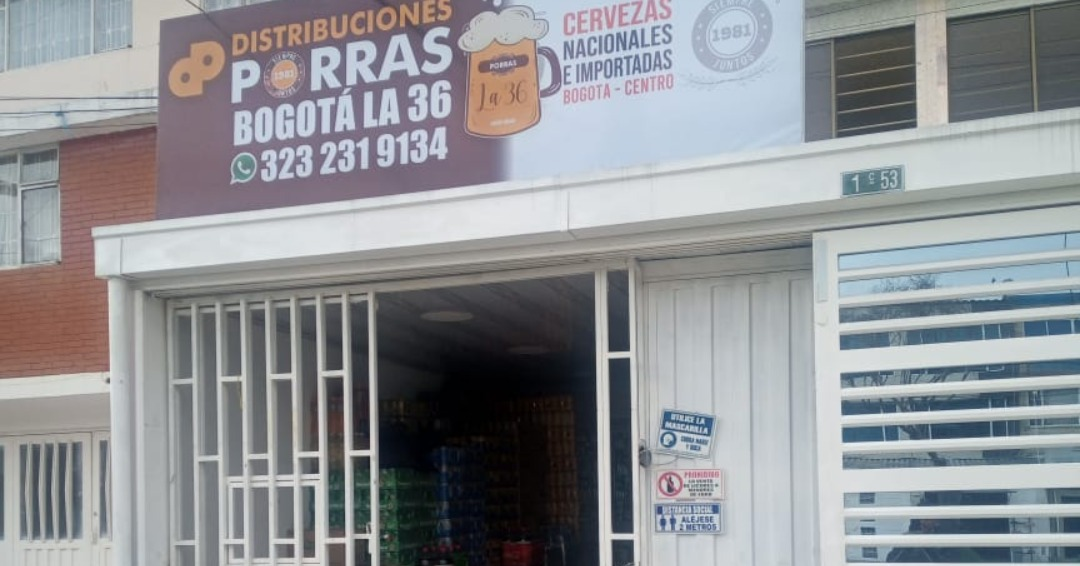
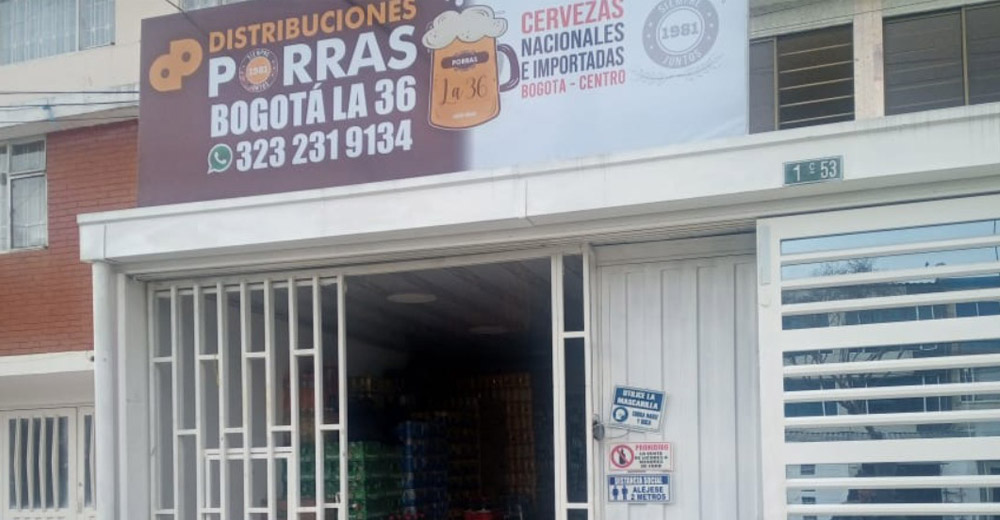
mapping images

diff --git a/sucursales/bogota/Bosa.html b/sucursales/bogota/Bosa.html
@@ -161,7 +161,7 @@
       <div class="col-12">
         <h3 class="mt-5 mb-5">Obtenga mas información haciendo click sobre la imagen</h3>
         <div id="fh5co-title-box">
-          <img src="../../images/Bosa.jpg" alt="sucursal Bosa" border="0" usemap="#Map" class="w-100 h-100 mainBanner" style="object-fit: cover;">
+          <img src="../../images/Bosa.jpg" alt="sucursal Bosa" border="0" usemap="#Map" class="w-100 mainBanner">
           <map name="Map">
             <area shape="poly" coords="308,3,301,241,1282,350,1345,150" href="#contact">
             <area shape="rect" coords="245,355,783,729" href="#" data-toggle="modal" data-target="#bosa1">
@@ -275,28 +275,13 @@
         <div class="imgContainer">
           <img class="w-100" src="../../images/aseo.jpg" alt="productos de aseo">
         </div>
-        <table class="table table-bordered table-dark mt-4 text-center">
-          <thead>
-            <tr>
-              <th class="text-center" scope="col">Producto</th>
-              <th class="text-center" scope="col">Precio</th>
-            </tr>
-          </thead>
-          <tbody>
-            <tr>
-              <td>producto1</td>
-              <td>$$$</td>
-            </tr>
-            <tr>
-              <td>producto2</td>
-              <td>$$$</td>
-            </tr>
-            <tr>
-              <td>producto3</td>
-              <td>$$$</td>
-            </tr>
-          </tbody>
-        </table>
+        <h5 class="pt-4 pb-2">Distribuimos las siguientes marcas:</h5>
+        <ul>
+          <li>Marca 1 Lorem ipsum dolor sit.</li>
+          <li>Marca 2 Lorem ipsum dolor sit.</li>
+          <li>Marca 3 Lorem ipsum dolor sit.</li>
+          <li>Marca 4 Lorem ipsum dolor sit.</li>
+        </ul>
       </div>
       <div class="modal-footer">
         <button type="button" class="btn" data-dismiss="modal">Cerrar</button>
@@ -321,28 +306,13 @@
             <div class="imgContainer">
               <img class="w-100" src="../../images/A2.png" alt="productos de aseo">
             </div>
-            <table class="table table-bordered table-dark mt-4 text-center">
-              <thead>
-                <tr>
-                  <th class="text-center" scope="col">Producto</th>
-                  <th class="text-center" scope="col">Precio</th>
-                </tr>
-              </thead>
-              <tbody>
-                <tr>
-                  <td>producto1</td>
-                  <td>$$$</td>
-                </tr>
-                <tr>
-                  <td>producto2</td>
-                  <td>$$$</td>
-                </tr>
-                <tr>
-                  <td>producto3</td>
-                  <td>$$$</td>
-                </tr>
-              </tbody>
-            </table>
+            <h5 class="pt-4 pb-2">Distribuimos las siguientes marcas:</h5>
+            <ul>
+              <li>Marca 1 Lorem ipsum dolor sit.</li>
+              <li>Marca 2 Lorem ipsum dolor sit.</li>
+              <li>Marca 3 Lorem ipsum dolor sit.</li>
+              <li>Marca 4 Lorem ipsum dolor sit.</li>
+            </ul>
           </div>
           <div class="modal-footer">
             <button type="button" class="btn" data-dismiss="modal">Cerrar</button>

diff --git a/sucursales/bogota/Soacha.html b/sucursales/bogota/Soacha.html
@@ -287,28 +287,13 @@
         <div class="imgContainer">
           <img class="w-100" src="../../images/Licores.jpg" alt="licores">
         </div>
-        <table class="table table-bordered table-dark mt-4 text-center">
-          <thead>
-            <tr>
-              <th class="text-center" scope="col">Producto</th>
-              <th class="text-center" scope="col">Precio</th>
-            </tr>
-          </thead>
-          <tbody>
-            <tr>
-              <td>producto1</td>
-              <td>$$$</td>
-            </tr>
-            <tr>
-              <td>producto2</td>
-              <td>$$$</td>
-            </tr>
-            <tr>
-              <td>producto3</td>
-              <td>$$$</td>
-            </tr>
-          </tbody>
-        </table>
+        <h5 class="pt-4 pb-2">Distribuimos las siguientes marcas:</h5>
+        <ul>
+          <li>Marca 1 Lorem ipsum dolor sit.</li>
+          <li>Marca 2 Lorem ipsum dolor sit.</li>
+          <li>Marca 3 Lorem ipsum dolor sit.</li>
+          <li>Marca 4 Lorem ipsum dolor sit.</li>
+        </ul>
       </div>
       <div class="modal-footer">
         <button type="button" class="btn" data-dismiss="modal">Cerrar</button>
@@ -333,28 +318,13 @@
         <div class="imgContainer">
           <img class="w-100" src="../../images/bebidas.jpg" alt="">
         </div>
-        <table class="table table-bordered table-dark mt-4 text-center">
-          <thead>
-            <tr>
-              <th class="text-center" scope="col">Producto</th>
-              <th class="text-center" scope="col">Precio</th>
-            </tr>
-          </thead>
-          <tbody>
-            <tr>
-              <td>producto1</td>
-              <td>$$$</td>
-            </tr>
-            <tr>
-              <td>producto2</td>
-              <td>$$$</td>
-            </tr>
-            <tr>
-              <td>producto3</td>
-              <td>$$$</td>
-            </tr>
-          </tbody>
-        </table>
+        <h5 class="pt-4 pb-2">Distribuimos las siguientes marcas:</h5>
+        <ul>
+          <li>Marca 1 Lorem ipsum dolor sit.</li>
+          <li>Marca 2 Lorem ipsum dolor sit.</li>
+          <li>Marca 3 Lorem ipsum dolor sit.</li>
+          <li>Marca 4 Lorem ipsum dolor sit.</li>
+        </ul>
       </div>
       <div class="modal-footer">
         <button type="button" class="btn" data-dismiss="modal">Cerrar</button>

diff --git a/js/script.js b/js/script.js
@@ -103,36 +103,6 @@ const showAlert = (state, alertMessage) => {
         `
 
         topSlider.parentNode.insertBefore(alert, topSlider);
-        //single.appendChild(alert);
-
-
-            //         // create new element
-            // const elem = document.createElement('p');
-
-            // // add text
-            // elem.innerText = 'Personal Details';
-
-            // // grab target element reference
-            // const target = document.querySelector('#intro');
-
-            // // insert the element before target element
-            // target.parentNode.insertBefore(elem, target);
-
-
-        // alert.setAttribute('class', 'position-absolute alertContainer');
-        // alert.setAttribute('id', 'alertContainer');
-        // alert.innerHTML = `${alertMessage}`;
-        // single.insertBefore(alert, topSlider)
-      
-        // setTimeout(()=>{
-        //     alert.classList.add('showAlert');
-        // },1500);
-        // setTimeout(()=>{
-        //     alert.classList.remove('showAlert');
-        //     alert.style.transition='.8s'
-        //     alert.style.display='none'
-        // },7000);
-     
     }
 }
 

diff --git a/sucursales/bogota/La 36.html b/sucursales/bogota/La 36.html
@@ -210,7 +210,7 @@
 
       
         <div id="fh5co-title-box">    
-        <img src="../../images/La36_adobespark.jpg" alt="sucursal la 36" border="0" usemap="#Map" class="w-100 mmainBanner h-100">
+        <img src="../../images/La36_adobespark.jpg" alt="sucursal la 36" border="0" usemap="#Map" class="w-100 mmainBanner">
         <map name="Map">
             <area shape="poly" coords="279,28,283,265,1443,171,1498,10" href="#contact">
             <area shape="rect" coords="165,296,1831,696" href="#" data-toggle="modal" data-target="#la361">

diff --git a/sucursales/bucaramanga/Giron.html b/sucursales/bucaramanga/Giron.html
@@ -191,7 +191,7 @@
             <h3 class="mt-5 mb-5">Obtenga mas información haciendo click sobre la imagen</h3>
             <!-- <div class="overlay"></div> -->
             <div class="col-12 p-0">
-              <img src="../../images/Giron.jpeg" alt="sucursal Girón" border="0" usemap="#Map" class="w-100 h-100 mainBanner">
+              <img src="../../images/Giron.jpg" alt="sucursal Girón" border="0" usemap="#Map" class="w-100 h-100 mainBanner">
             </div>
             
             <map name="Map">

diff --git a/css/style_1.css b/css/style_1.css
@@ -985,7 +985,6 @@ a:hover {
 
 .single #fh5co-title-box {
   position: relative;
-  height: 700px;
   width: 100%;
 }
 

diff --git a/sass/style_1.scss b/sass/style_1.scss
@@ -901,7 +901,6 @@ a:hover {
 
   .single & {
     position: relative;
-    height: 700px;
     width: 100%;
   }
 
